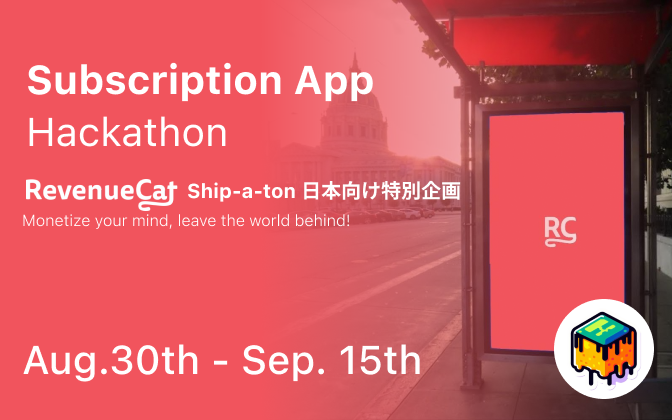
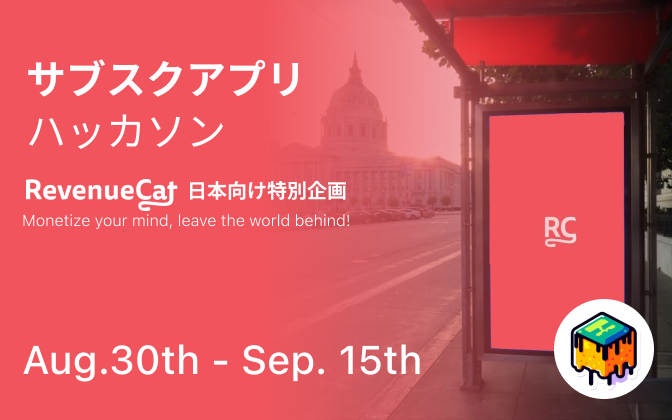
Create GameJam Report

Changed region(s): [[0.0312, 0.1238, 0.5625, 0.2476], [0.2812, 0.4333, 0.6875, 0.4952], [0.0312, 0.2786, 0.3438, 0.3714]]

diff --git a/pages/events/240818.jsx b/pages/events/240818.jsx
@@ -1,0 +1,158 @@
+import React, { useState } from 'react'
+import { BackgroundVerticalLines, Footer, Header, Lightbox, ScrollToTop } from '@/components'
+import Head from 'next/head'
+import { blogData } from '@/components/Blog/BlogData'
+import Image from 'next/image';
+import Link from 'next/link';
+import SmallImage1 from '@/public/images/events/event240818_small1.png'
+import SmallImage2 from '@/public/images/events/event240818_small2.png'
+import SmallImage3 from '@/public/images/events/event240818_small3.png'
+import BigImage1 from '@/public/images/events/event240818_big1.png'
+import BigImage2 from '@/public/images/events/event240818_big2.png'
+
+
+const Event240818 = ({ post }) => {
+    const [lightboxImage, setLightboxImage] = useState(null);
+
+    const openLightbox = (image) => {
+        setLightboxImage(image);
+    };
+
+    const closeLightbox = () => {
+        setLightboxImage(null);
+    };
+
+    return (
+        <>
+            <Head>
+                <title>Game Jam vol.1</title>
+                <meta name="description" content="Melting Hack organized a game-focused hackathon in collaboration with three startup founders. Participants successfully submitted their games on itch.io within the designated timeframe." />
+                <meta name="keywords" content="Hackathon, Offline, Game, AI" />
+            </Head>
+
+            <main>
+                {/* Header section */}
+                <Header />
+                <div className="section">
+                    <div className="container">
+                        <div className="row">
+                            <div className="col-12 col-lg-10 offset-lg-1 col-xl-8 offset-xl-2">
+                                <h1 className="display-4 fw-normal">Game Jam vol.1</h1>
+                                <p>Melting Hack organized a game-focused hackathon in collaboration with three startup founders. Participants successfully submitted their games on itch.io within the designated timeframe.</p>
+                            </div>
+                        </div> {/* end row */}
+                        <div className="row g-4 mt-4">
+                            <div className="col-12 col-lg-6 col-xl-3">
+                                <div className="fancy-box">
+                                    <h6 className="sm-heading">Category</h6>
+                                    <ul className="list-inline-dot">
+                                        <li>Hackathon</li>
+                                        <li>Offline</li>
+                                        <li>Game</li>
+                                        <li>AI</li>
+                                    </ul>
+                                </div>
+                            </div>
+                            <div className="col-12 col-lg-6 col-xl-3">
+                                <div className="fancy-box">
+                                    <h6 className="sm-heading">Date</h6>
+                                    <span>August 16-18th, 2024</span>
+                                </div>
+                            </div>
+                            <div className="col-12 col-lg-6 col-xl-3">
+                                <div className="fancy-box">
+                                    <h6 className="sm-heading">Website</h6>
+                                    <Link className="link-hover" href="https://itch.io/jam/meltinghack-gamejam-vol1">https://itch.io/jam/meltinghack-gamejam-vol1</Link>
+                                </div>
+                            </div>
+                            <div className="col-12 col-lg-6 col-xl-3">
+                                <div className="fancy-box">
+                                    <h6 className="sm-heading">Participants</h6>
+                                    <span>26 members</span>
+                                </div>
+                            </div>
+                        </div> {/* end row */}
+                    </div> {/* end container */}
+                </div>
+
+                <div className="section pt-0">
+                    <div className="container">
+                        {/* Media */}
+                        <div className="row g-4">
+                            <div className="col-12 col-lg-4">
+                                <Image className="border-radius-1" src={SmallImage1} alt="event" placeholder="blur" />
+                            </div>
+                            <div className="col-12 col-lg-4">
+                                <Image className="border-radius-1" src={SmallImage2} alt="event" placeholder="blur" />
+                            </div>
+                            <div className="col-12 col-lg-4">
+                                <Image className="border-radius-1" src={SmallImage3} alt="event" placeholder="blur" />
+                            </div>
+                        </div> 
+                        {/* end row */}
+
+                        {/* Content */}
+                        <div className="row mt-5">
+                            <div className="col-12 col-lg-10 offset-lg-1 col-xl-8 offset-xl-2">
+                                {/* <div dangerouslySetInnerHTML={{ __html: post.content }} /> */}
+                                <div className="py-3">
+                                    <p>We are excited to share the highlights of Game Jam vol.1, held from August 16th to 18th at the Mercari office in Tokyo. This in-person, three-day hackathon brought together a diverse group of game creators and enthusiasts, marking the first of many events aimed at building a vibrant, international community of game developers in Tokyo.</p>
+                                </div>
+                                <div className="py-3">
+                                    <h4>Innovative Game Development:</h4>
+                                    <p>Throughout the three days, teams worked tirelessly to bring their game ideas to life. The use of both well-known tools like Unity and Unreal Engine, as well as cutting-edge generative AI tools like ChatGPT and Whisper, led to a variety of innovative and exciting game concepts. The diversity of approaches highlighted the potential of blending different technologies in game development.</p>
+                                </div>
+                                <div className="py-3">
+                                    <h4>Engagement and Participation:</h4>
+                                    <p>With a wide variety of registered participants, the event had a strong turnout and high level of engagement. The mix of experienced developers and newcomers created a dynamic learning environment where knowledge and skills were freely shared. The language barrier was effectively managed, with English as the primary medium and Japanese support available, ensuring that everyone could fully participate.</p>
+                                </div>
+                                <div className="py-3">
+                                    <h4>Showcase and Feedback:</h4>
+                                    <p>On the final day, each team presented their game to the group, showcasing the results of their hard work. The presentations were met with enthusiastic feedback from peers and judges, highlighting the creativity and technical skills on display. The event concluded with an awards ceremony, recognizing outstanding achievements in categories such as Grand Prize, and Audience Awards.</p>
+                                </div>
+                                <div className="py-3">
+                                    <h4>Building a Community:</h4>
+                                    <p>Beyond the games created, Game Jam vol.1 succeeded in laying the foundation for a like-minded, international community of game creators in Tokyo. Participants expressed excitement about future events and the potential for ongoing collaboration.</p>
+                                </div>
+                                <div className="py-3">
+                                    <h4>Conclusion:</h4>
+                                    <p>Game Jam vol.1 was a resounding success, demonstrating the power of collaboration and innovation in the game development community. We are grateful to all participants and supporters who made this event possible. We look forward to building on this momentum and continuing to foster creativity and connection in the Tokyo game development scene.</p>
+                                    <p>Stay tuned for details on upcoming Game Jams and meetup events as we grow this exciting new community!</p>
+                                </div>
+                            </div>
+                        </div> 
+                        {/* end row */}
+
+                        {/* Images */}
+                        <div className="row g-4 mt-4">
+                            {/* Images Lightbox */}
+                            <div className="col-12 col-md-6">
+                                <div className="lightbox-image">
+                                    <Image src={BigImage1} alt="event" placeholder="blur" />
+                                </div>
+                            </div>
+                            <div className="col-12 col-md-6">
+                                <div className="lightbox-image">
+                                    <Image src={BigImage2} alt="event" placeholder="blur" />
+                                </div>
+                            </div>
+                        </div> 
+                        {/* end container */}
+                    </div>
+                </div>
+                {lightboxImage && (
+                    <Lightbox image={lightboxImage} closeLightbox={closeLightbox} />
+                )}
+
+                {/* Footer section */}
+                <Footer />
+                {/* Scroll To Top */}
+                <ScrollToTop />
+                {/* Background Vertical Lines */}
+                <BackgroundVerticalLines />
+            </main>
+        </>
+    )
+}
+
+export default Event240818

diff --git a/components/Portfolio/PortfolioData.jsx b/components/Portfolio/PortfolioData.jsx
@@ -4,6 +4,7 @@ import Image from '@/public/images/col-2.jpg';
 import Event240519Image from '@/public/images/events/event240519_big2.png'
 import Event240630Image from '@/public/images/events/event240630_small3.png'
 import Event240713Image from '@/public/images/events/event240713_big1.png'
+import Event240818Image from '@/public/images/events/event240818_big2.png'
 import SubscriptionImage from '@/public/images/events/subscription_hackathon.png'
 
 export const portfolioData = {
@@ -563,7 +564,7 @@ export const portfolioData = {
         ],
         projects: [
             {
-                title: 'Subscription App Hackathon: RevenueCat Ship-a-ton Japan Special',
+                title: 'サブスクアプリ Hackathon: RevenueCat Global Hackathon Japan Special',
                 slug: 'https://subscription-hackathon.melting-hack.tokyo/',
                 description: '',
                 category: 'hackathon',
@@ -573,6 +574,24 @@ export const portfolioData = {
                 duration: '',
                 content: '',
                 mainImage: SubscriptionImage,
+                media: [],
+                images: [],
+                categories: [
+                    { name: 'Hackathon' },
+                    { name: 'Offline' },
+                ],
+            },
+            {
+                title: 'GameJam vol.1',
+                slug: 'events/240818',
+                description: '',
+                category: 'hackathon',
+                services: [],
+                client: '',
+                projectLink: {},
+                duration: '',
+                content: '',
+                mainImage: Event240818Image,
                 media: [],
                 images: [],
                 categories: [

diff --git a/components/About/AboutData.jsx b/components/About/AboutData.jsx
@@ -43,7 +43,7 @@ export const aboutData = {
     corporate: {
         mainData: {
             name1: 'Community Members',
-            count1: '290',
+            count1: '320',
             image1: OnlineSessionImage,
             name2: 'Events Organized',
             count2: '10',
@@ -56,7 +56,7 @@ export const aboutData = {
     },
     marketing: {
         mainData: {
-            title: "Subscription App Hackathon: RevenueCat Ship-a-ton Japan Special",
+            title: "サブスクアプリ Hackathon: RevenueCat Ship-a-ton Japan Special",
             image: FeaturedEventImage,
             featuredSite: 'https://subscription-hackathon.melting-hack.tokyo/',
             eventSite: 'https://melting-hack.connpass.com/event/327248/',

diff --git a/pages/index.jsx b/pages/index.jsx
@@ -31,7 +31,7 @@ export default function Home() {
                 {/* About section */}
                 <BusinessAbout data={aboutData.corporate} />
                 {/* About section */}
-                <MarketingAbout data={aboutData.marketing} />
+                {/* <MarketingAbout data={aboutData.marketing} /> */}
                 {/* Blog section */}
                 <Blog data={blogData.business} />
                 {/* Team section */}
